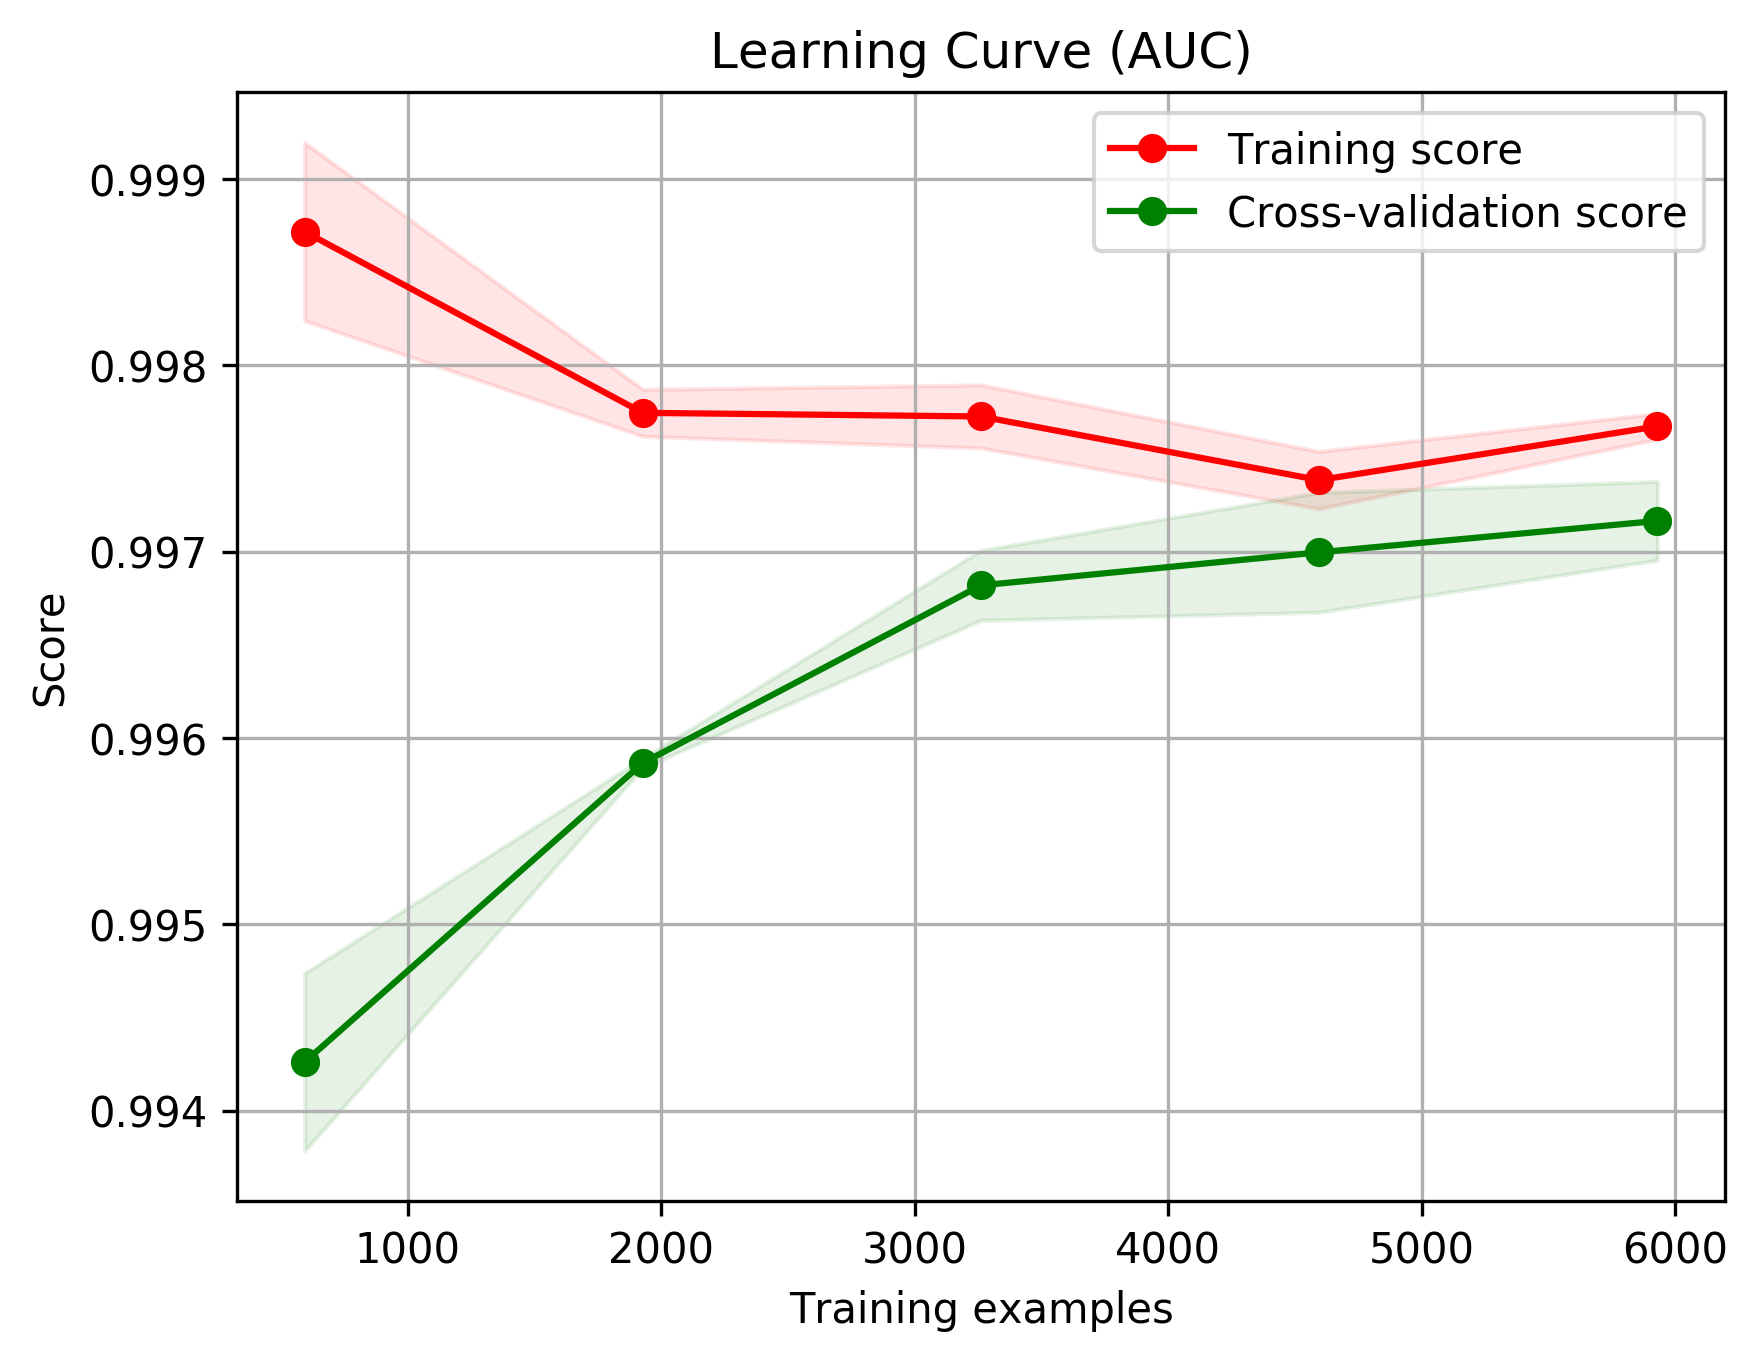
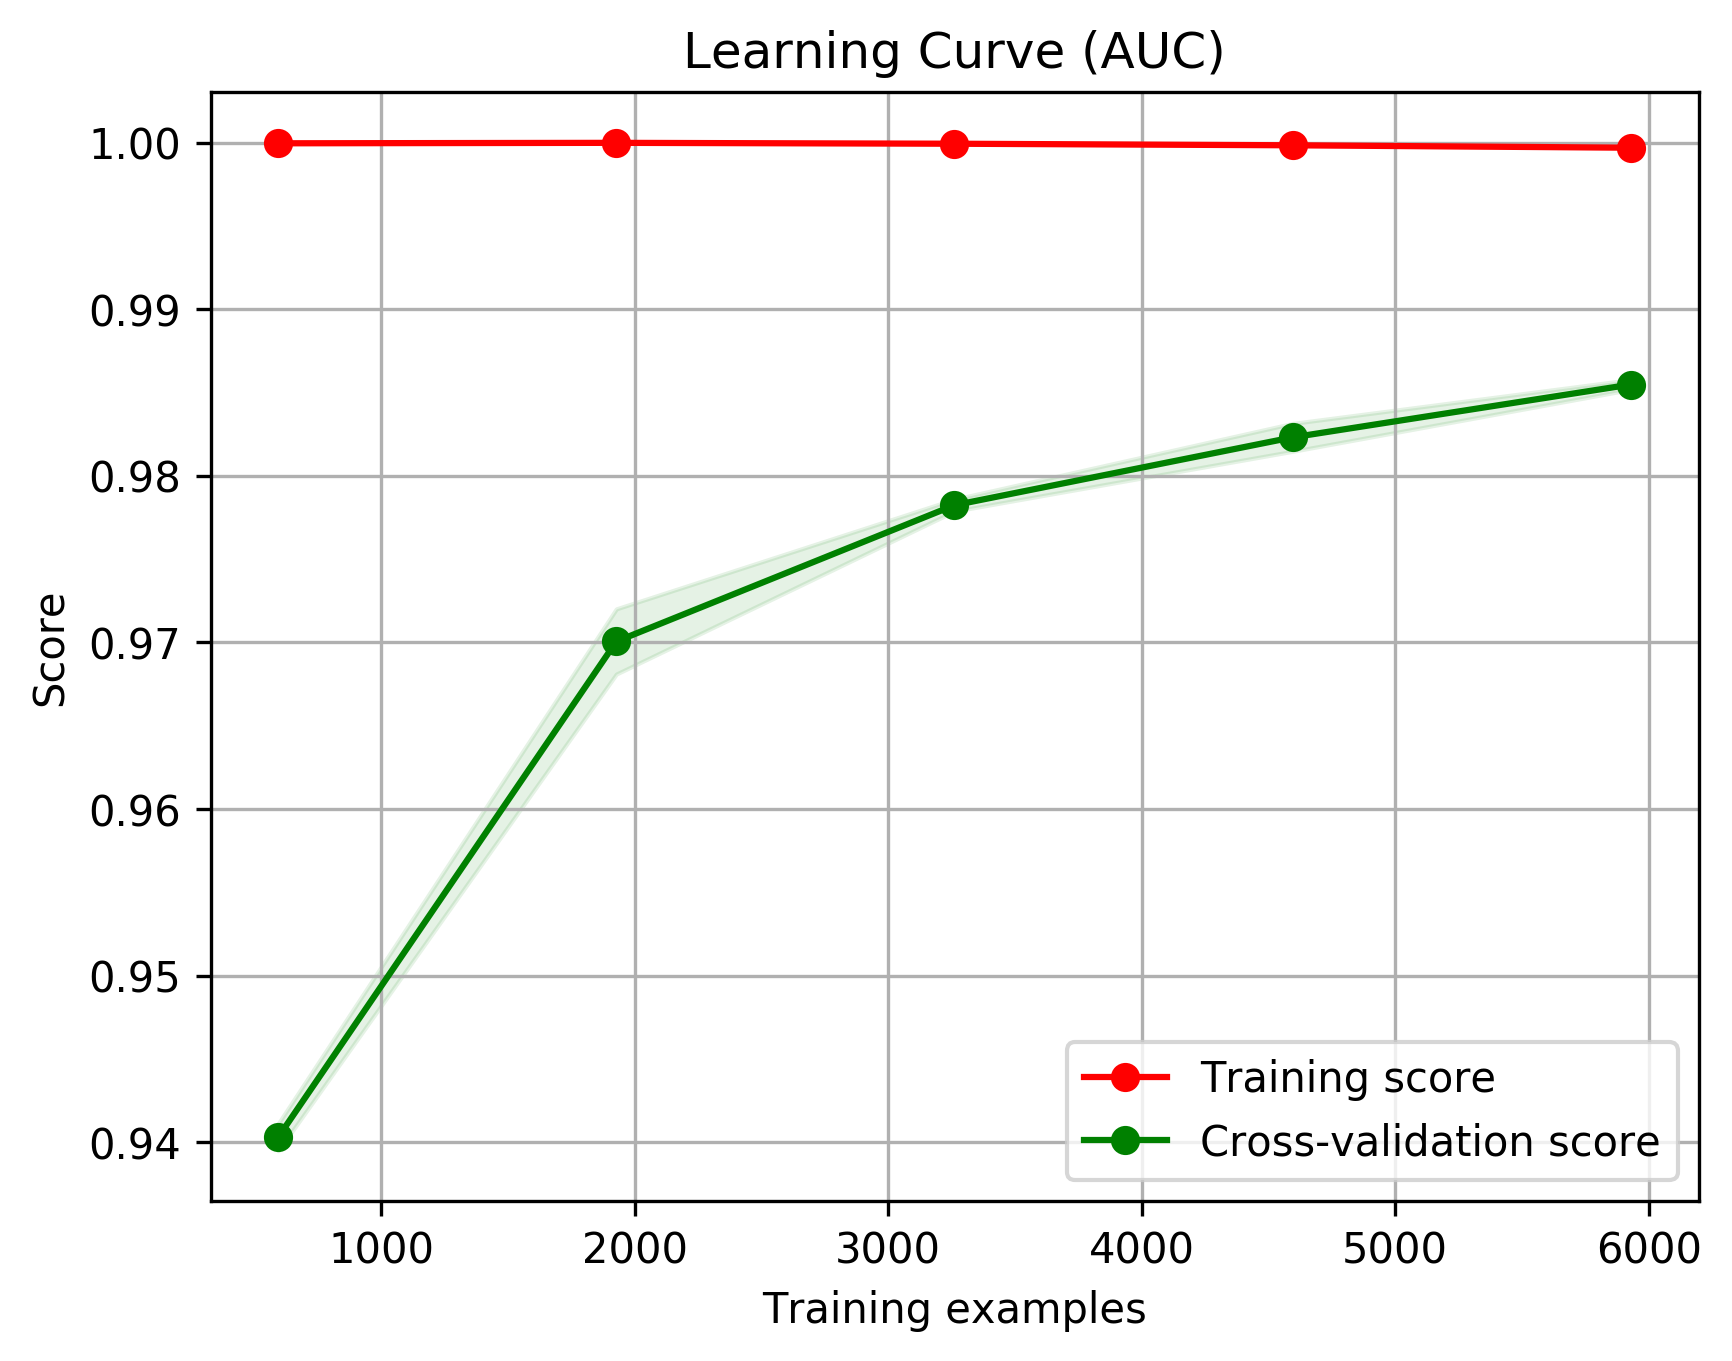
250best svc

diff --git a/main_LS.py b/main_LS.py
@@ -7,35 +7,35 @@ from utils import pandaman
 
 if __name__ == '__main__':
 
-    options = ["LS","user_classification" ,"svm", "LDA", "tuned_finer"]
+    options = ["LS","user_classification" ,"svm", "250_best", "tuned_coarse"]
     results_location = os.path.join("Results", '/'.join(options) + "/")
 
     trainer = trainer.Trainer()
 
-    estimator = svm.SVC(class_weight='balanced', C=500, kernel='linear')
+    estimator = svm.SVC(class_weight='balanced', C=100, kernel='poly', gamma=0.001, degree=4)
 
     train_features, train_activity_labels, train_subject_labels, test_features = trainer.load_data(
         os.path.join("feature_extraction", '_data_sets/unreduced.pkl'), final=False)
 
     # pandaman.print_stats(train_features=train_features, train_activity_labels=train_activity_labels,
     #                      train_subject_labels=train_subject_labels, test_features=test_features)
-
-    train_features = feature_reducer.reduce_LDA(train_features, train_subject_labels, 7)
+    train_features = feature_reducer.reduce_k_best(train_features, train_subject_labels, k=250)[0]
+    # train_features = feature_reducer.reduce_LDA(train_features, train_subject_labels, 7)
 
     # pandaman.print_stats(train_features=train_features, train_activity_labels=train_activity_labels,
     #                      train_subject_labels=train_subject_labels, test_features=test_features)
 
     # Perform parameter optimisation
     tuned_parameters = [
-      {'C': list(range(400,1400,100)), 'kernel': ['linear']},
-      # {'C': [1, 10, 100, 1000], 'gamma': [0.001, 0.0001], 'kernel': ['rbf']},
-      # {'C': [1, 10, 100, 1000], 'gamma': [0.001, 0.0001], 'kernel': ['poly'], 'degree': [2, 3, 4]}, # coef0 is best left at 0 for lower degree polys
+      {'C': [1, 10, 100, 1000], 'kernel': ['linear']},
+      {'C': [1, 10, 100, 1000], 'gamma': [0.001, 0.0001], 'kernel': ['rbf']},
+      {'C': [1, 10, 100, 1000], 'gamma': [0.001, 0.0001], 'kernel': ['poly'], 'degree': [2, 3, 4]}, # coef0 is best left at 0 for lower degree polys
     #  {'C': [1, 10, 100, 1000], 'gamma': [0.001, 0.0001], 'kernel': ['sigmoid']} # paper suggesting to not use sigmoid kernel
     ]
     #trainer.find_optimized_model(estimator, train_features, train_subject_labels, tuned_parameters, scorer.auc_evaluator)
 
     #trainer.evaluate(estimator, train_features, train_subject_labels, scorer.auc_evaluator, results_location)
-    #trainer.get_acc_auc(estimator, train_features, train_subject_labels, results_location)
+    trainer.get_acc_auc(estimator, train_features, train_subject_labels, results_location)
     visualiser.plot_learning_curves(estimator, train_features, train_subject_labels, results_location)
 
 
